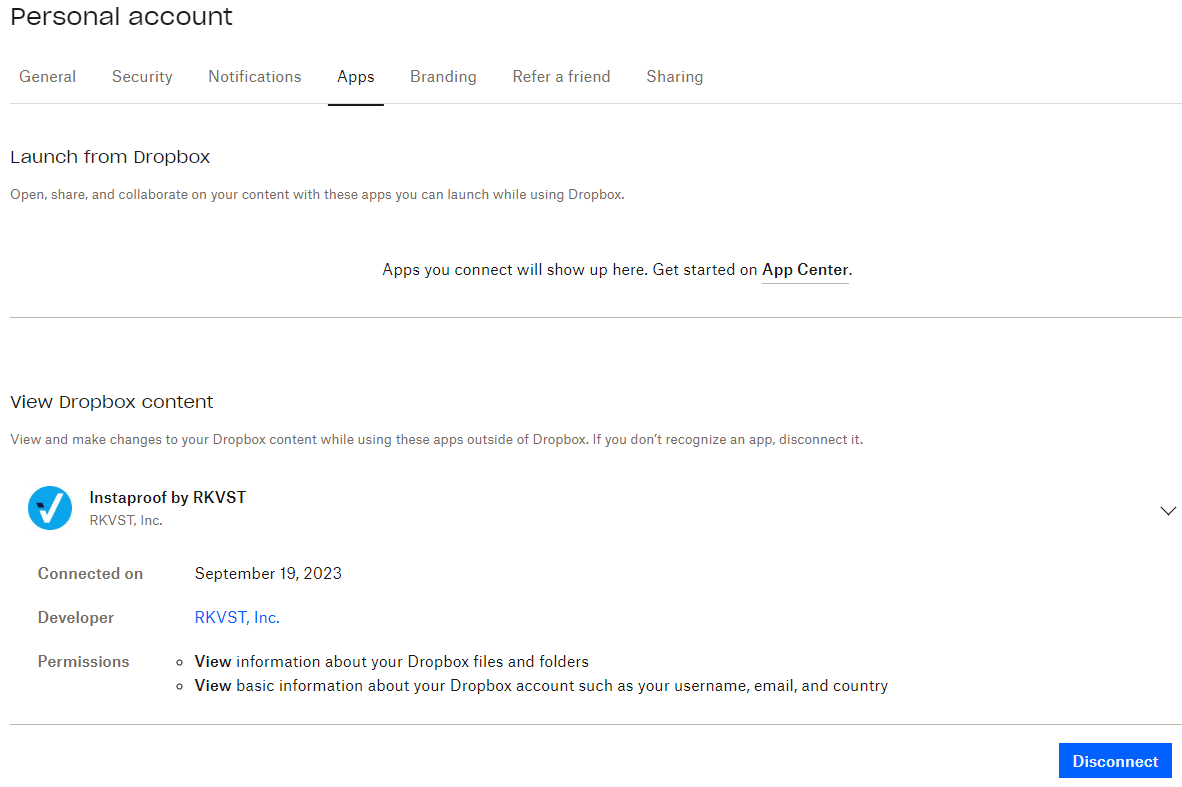
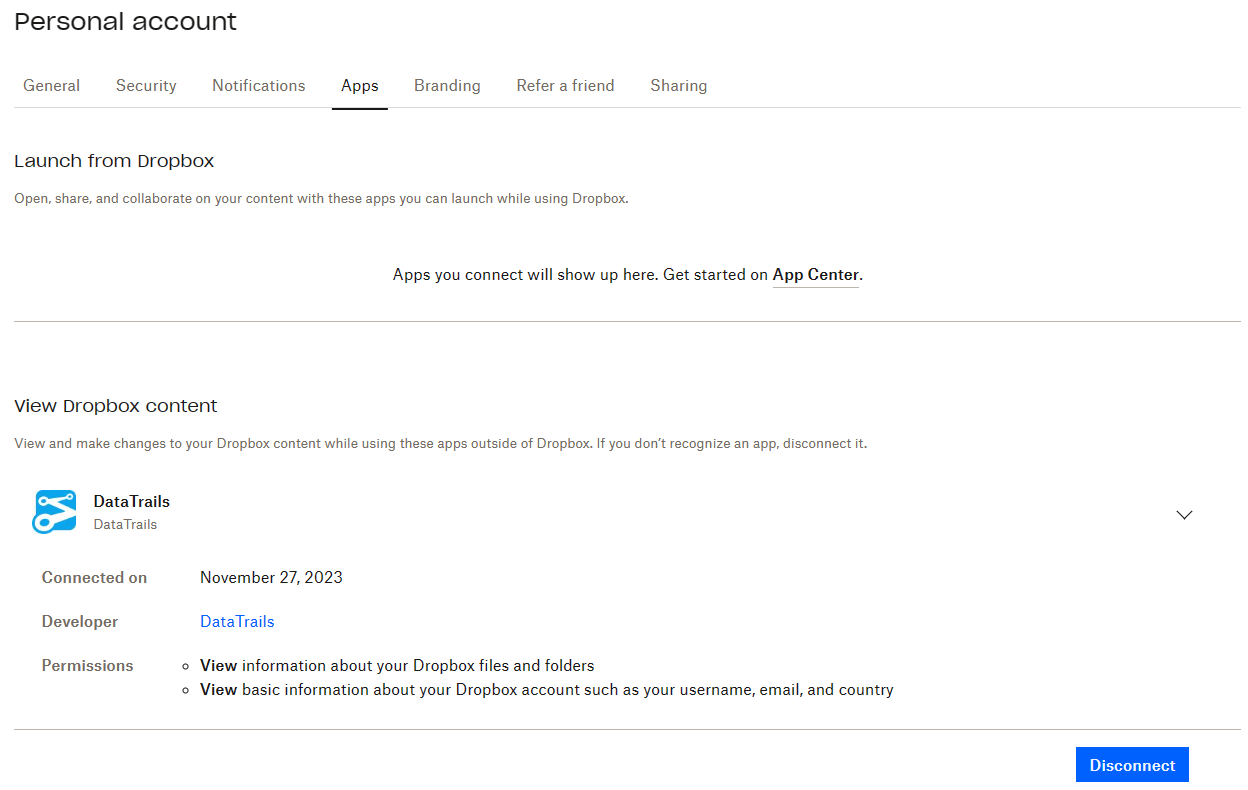
Updated Dropbox article, removed rkvst from scitt-receipts and updated the Golden Thread image

diff --git a/content/platform/administration/dropbox-integration/index.md b/content/platform/administration/dropbox-integration/index.md
@@ -15,29 +15,42 @@ toc: true
 
 ## The Dropbox Integration
 
-This integration allows you to connect your DataTrails tenancy directly with Dropbox to automatically add provenance to your files and create an immutable audit trail.
+This integration allows you to connect your DataTrails tenancy directly with Dropbox to automatically record and maintain the provenance metadata of your files in an immutable audit trail.
 
-During the set up process you will select which Dropbox folders will be linked to DataTrails. Any files found in the linked folders, and their subfolders, will always be added to your DataTrails tenancy as a **public** [Document Profile Asset](/developers/developer-patterns/document-profile/). These assets can be verified using [Instaproof](/platform/overview/instaproof/).
+DataTrails uses transparent and auditable distributed ledger technology to maintain an immutable trail of provenance metadata independent of, but in concert with, the original file in Dropbox. 
+The original data never enters the DataTrails system and remains on Dropbox.
+The provenance metadata that is recorded in the immutable audit trail can be shared and verified globally completely independently of the data itself. This increases the scope for efficient and transparent collaboration without changing the risk profile of the data.
 
-From then on, each time a new file is created a corresponding asset will also be created on DataTrails and any modifications to an existing file will be registered as a [Publish Event](/developers/developer-patterns/document-profile/#publish-event) on the correct asset.
+During the set up process you will select which Dropbox folders will be linked to DataTrails. A provenance metatdata record will be created on your DataTrails tenancy for every file found within a linked folder. It will be created as a [Document Profile Asset](/developers/developer-patterns/document-profile/) which can be verified using [Instaproof](/platform/overview/instaproof/). 
+
+From then on, each time a new file is created in a linked folder, a corresponding provenance metadata record will be created on DataTrails. Any modifications to a file in a linked folder will be recorded as a [Publish Event](/developers/developer-patterns/document-profile/#publish-event) in the provenance metadata record for that file.  
+The result is that the auditable provenance record for your files begins at the moment that you link a folder and that an immutable audit trail for each file automatically grows as the files are modified. 
+
+**A note on subfolders.**<br> 
+During configuration, when you link a folder in the UI we will automatically link any subfolders too. Similarly, if you unlink a folder in the UI we will automatically unlink any subfolders. 
+ 
+If you create a subfolder in Dropbox after the integration has been set up it will be automatically added to the linked folder list. If you delete a subfolder or move it to an unlinked location it will be automatically removed from the linked folder list.
+
+You are free, at any time, to link and unlink a folder at all levels of your folder tree using the instructions at [Editing the list of Linked folders](/platform/administration/dropbox-integration/#editing-the-list-of-linked-folders)
+
+Please also see our [FAQ](https://support.datatrails.ai/hc/en-gb/articles/14378210620562-Dropbox-File-and-Folder-Management-FAQ) for more information.
+
 
 {{< note >}}
-**Note:** DataTrails will **never** upload a copy of the file.
-
-DataTrails uses <em>xxx...</em> to mask the file name and file path in the UI. This is intentional so that private information cannot be accidentally released via the Instaproof search results and because DataTrails is not intended to replace the excellent file management functionality that is provided by Dropbox.<br>
+**Note**: DataTrails uses <em>xxx...</em> to mask the file name and file path in the UI. This is intentional so that private information cannot be accidentally released via the Instaproof search results and because DataTrails is not intended to replace the excellent file management functionality that is provided by Dropbox.<br>
 Knowledge of the filename is not needed to prove provenance because Instaproof will attest and verify the content of a file even if the filename has been changed.
 {{< /note >}}
 
 ### Connecting DataTrails to Dropbox
 
-1. Select **Settings** from the side bar and then the **Integrations** tab
+1. Select **Settings** or **Integrations** from the side bar and then the **Integrations** tab
 {{< img src="DropboxStart.png" alt="Dropbox Integration" caption="<em>Settings</em>" class="border-0">}}
 1. Select **Dropbox** and then **Proceed**.
 {{< img src="DropboxProceed.png" alt="Dropbox Integration" caption="<em>Proceed</em>" class="border-0">}}
 If you are already logged into Dropbox on the device that you are using to set up the integration then you will proceed directly to step 3.<br>If you are not logged in then Dropbox will ask you to authenticate.
 {{< img src="DropboxAuth.png" alt="Dropbox Integration" caption="<em>Log in to Dropbox</em>" class="border-0">}}
 1. DataTrails now asks for permission to see metadata for your files and folders. Click **Allow** to give DataTrails permission to access your Dropbox Folders.
-{{< img src="DropboxRKVSTAllow.png" alt="Dropbox Integration" caption="<em>Select Allow</em>" class="border-0">}}
+{{< img src="DropboxDataTrailsAllow.png" alt="Dropbox Integration" caption="<em>Select Allow</em>" class="border-0">}}
 1. Select the Dropbox folder that you wish to link to DataTrails and then click **Confirm**. The contents of this folder and *all its subfolders* will be added to DataTrails as public Document Profile Assets.
 {{< img src="DropboxConfirm.png" alt="Dropbox Integration" caption="<em>Select folder and Confirm</em>" class="border-0">}}
 1. You will see a success message. Dropbox will be connected and the selected folders will be linked.
@@ -52,7 +65,7 @@ Click on an icon on the right to edit the connection or to disconnect.
 
 ### Editing the list of Linked folders
 1. Select the File icon in DataTrails
-{{< img src="RKVSTDisconnect.png" alt="Dropbox Integration" caption="<em>File icon on the right</em>" class="border-0">}}
+{{< img src="DataTrailsDisconnect.png" alt="Dropbox Integration" caption="<em>File icon on the right</em>" class="border-0">}}
 1. You will see the list of available folders. Select a folder to link or deselect a folder to unlink and then click **Confirm**
 {{< img src="DropboxConfirm.png" alt="Dropbox Integration" caption="<em>Reconfigure folders and Confirm</em>" class="border-0">}}
 
@@ -61,7 +74,7 @@ Click on an icon on the right to edit the connection or to disconnect.
 To disconnect DataTrails and Dropbox you have the option to disconnect using both applications.
 
 1. Select the Disconnect icon in DataTrails
-{{< img src="RKVSTDisconnect.png" alt="Dropbox Integration" caption="<em>Disconnect Dropbox</em>" class="border-0">}}
+{{< img src="DataTrailsDisconnect.png" alt="Dropbox Integration" caption="<em>Disconnect Dropbox</em>" class="border-0">}}
 You will see a warning message.
 {{< img src="DisconnectWarning.png" alt="Dropbox Integration" caption="<em>Disconnect Warning</em>" class="border-0">}}
 This means that this specific tenancy will no longer be used for provenance. You would do this if you no longer want to use a connected tenancy while continuing to use other connected tenancies.

diff --git a/content/platform/overview/scitt-receipts/index.md b/content/platform/overview/scitt-receipts/index.md
@@ -102,8 +102,8 @@ The transaction_id is available once the event has been committed to the blockch
                 | jq -r .stateRoot)
     ```
 
-1. Finally, use the `rkvst_receipt_scittv1` command to verify the receipt offline at any time.
+1. Finally, use the `datatrails_receipt_scittv1` command to verify the receipt offline at any time.
 
     ```bash
-    echo ${RECEIPT} | rkvst_receipt_scittv1 verify -d --worldroot ${WORLDROOT}
+    echo ${RECEIPT} | datatrails_receipt_scittv1 verify -d --worldroot ${WORLDROOT}
     ```
